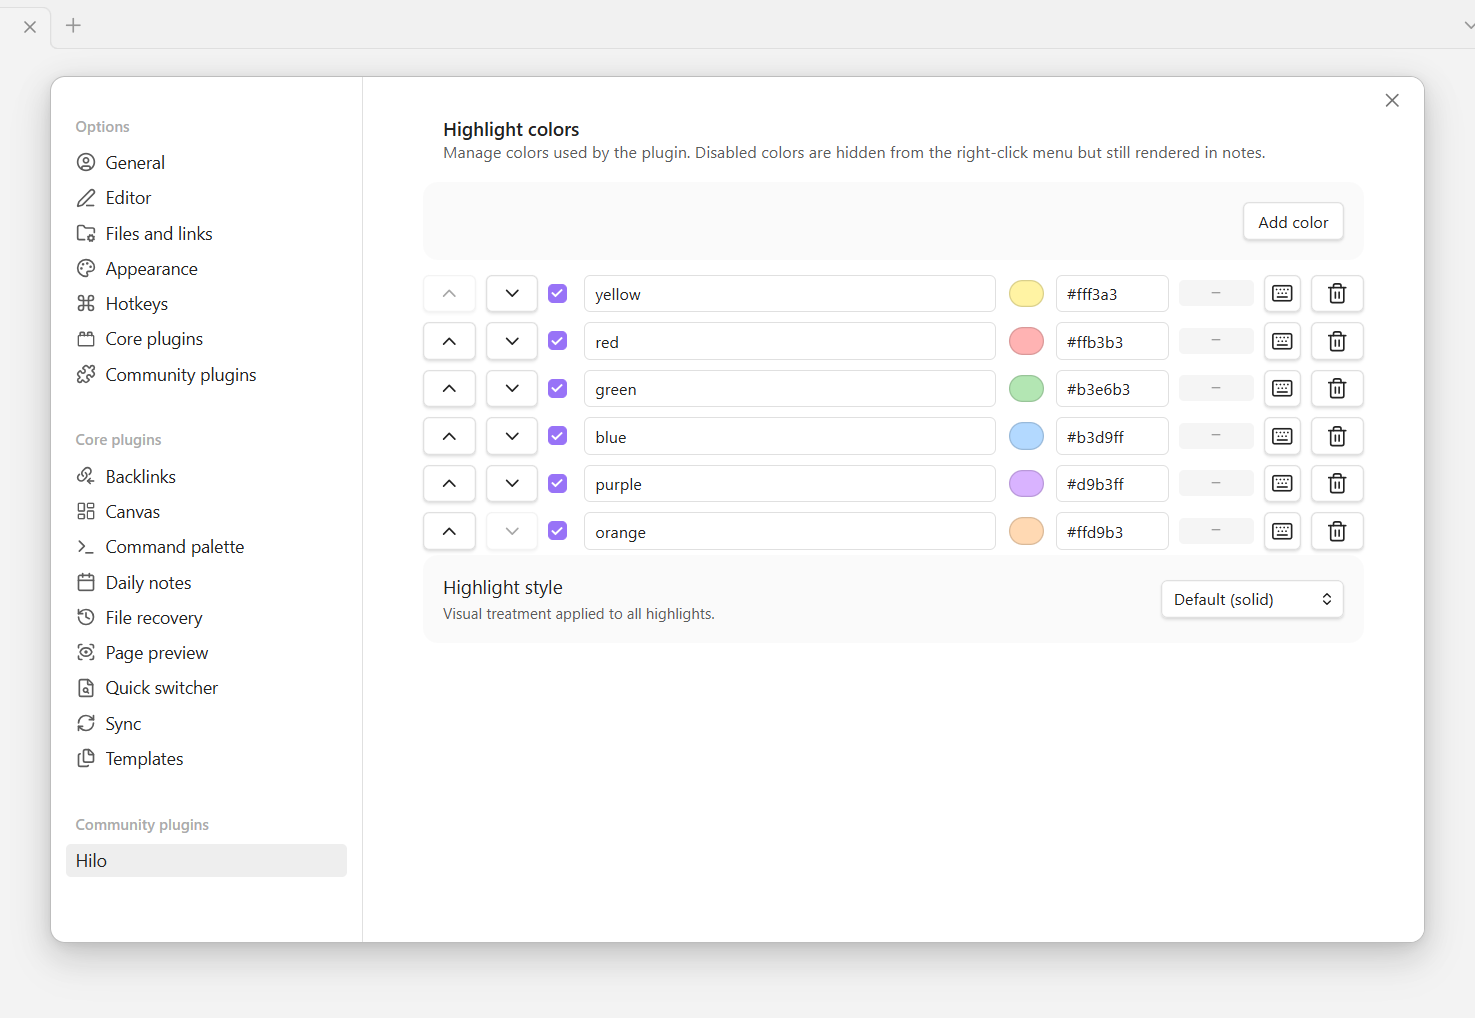
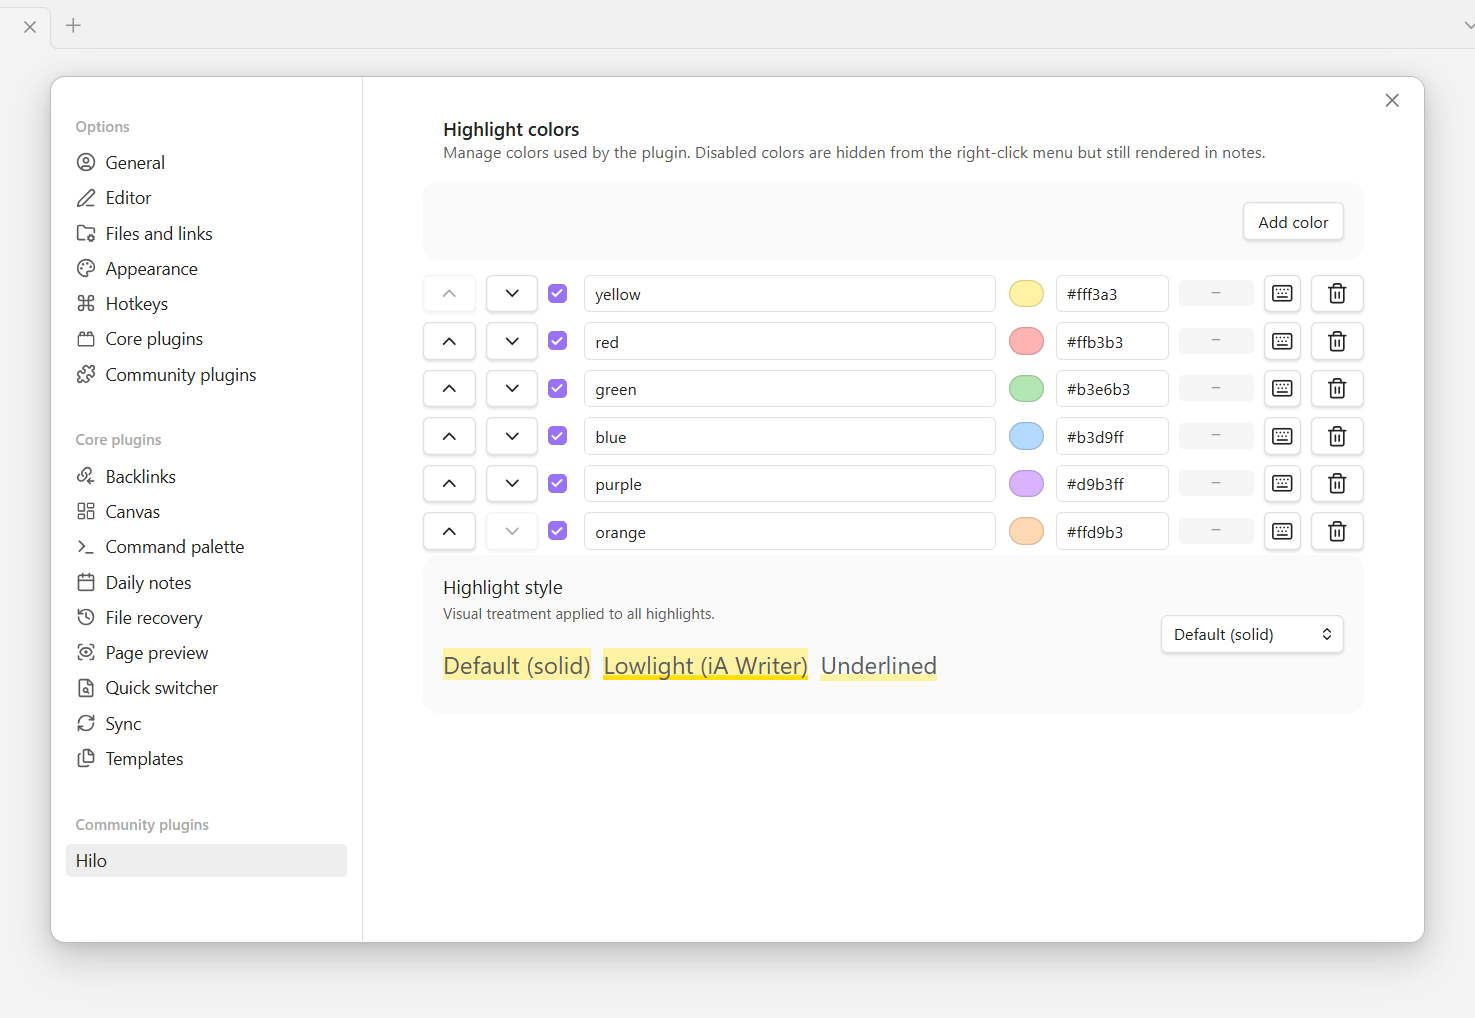
docs: rewrite Visual styles section for #2 (Underlined) + recapture settings shot with preview panel

Changed region(s): [[0.2807, 0.6395, 0.6549, 0.6699], [0.7797, 0.5786, 0.9044, 0.6395]]

diff --git a/README.ko.md b/README.ko.md
@@ -53,16 +53,21 @@
 
 ### 색상 커스터마이즈
 
-![설정 → Hilo — 색상별 슬러그/hex/미리보기/단축키와 Highlight style 드롭다운](assets/screenshots/demo-03-settings.png)
+![설정 → Hilo — 색상별 슬러그/hex/미리보기/단축키, Highlight style 드롭다운, 각 스타일 실시간 프리뷰](assets/screenshots/demo-03-settings.png)
 
 - 설정 → Hilo에서 색상 추가/편집/삭제/순서 변경/활성화 토글 지원.
 - 슬러그(`yellow`) + hex(`#fff3a3`) 조합으로 자유 정의.
 - 비활성화된 색상은 메뉴에서 숨겨지지만 기존 하이라이트는 시각적으로 유지됩니다.
 
-### iA Writer 풍 lowlight 스타일
-- 설정 → Highlight style에서 `Lowlight` 선택 시 배경 + 색상별 자동 darker underline 적용.
-- underline 색은 각 배경색에서 HSL 변환(hue 유지, saturation 100%, lightness -30pp)으로 자동 계산.
-- Chromium spellcheck와 충돌하지 않는 `box-shadow` 기반 underline.
+### 시각 스타일
+
+설정 → Hilo → Highlight style에서 세 가지 렌더 방식 중 선택 (드롭다운 바로 아래에 실시간 프리뷰가 표시됩니다 — 위 스크린샷 참고):
+
+- **Default (solid)** — 텍스트 전체 영역을 색으로 채우는 클래식 형광펜 스타일.
+- **Lowlight (iA Writer)** — 은은한 배경 + 색상별 진한 밑줄. 밑줄 색은 각 배경색에서 HSL 변환(hue 유지, saturation 100%, lightness -30pp)으로 자동 계산.
+- **Underlined** — 배경 없이 텍스트 하단만 얇은 컬러 밴드. Light/dark 테마 모두 자연스러움.
+
+밑줄은 `box-shadow`(Lowlight) 또는 `linear-gradient`(Underlined)로 렌더 — `text-decoration`이 Chromium spellcheck에 override되는 문제 회피.
 
 ### Highlightr 마이그레이션
 - 기존 `<mark style="...">text</mark>` 형태의 하이라이트에서도 우클릭 메뉴가 작동합니다.

diff --git a/README.md b/README.md
@@ -53,16 +53,21 @@ Assign hotkeys in **Settings → Hotkeys**. Each color row in **Settings → Hil
 
 ### Color customization
 
-![Settings → Hilo — slug/hex/preview/hotkey per color, plus the Highlight style dropdown](assets/screenshots/demo-03-settings.png)
+![Settings → Hilo — slug/hex/preview/hotkey per color, Highlight style dropdown, and a live preview of every style](assets/screenshots/demo-03-settings.png)
 
 - **Settings → Hilo** lets you add, edit, delete, reorder, and enable/disable colors.
 - Define any color as `slug` + `hex` (e.g. `yellow` + `#fff3a3`).
 - Disabled colors are hidden from menus but remain visually preserved in existing highlights.
 
-### iA Writer–style lowlight mode
-- Background + per-color darker underline. Choose it under **Settings → Highlight style → Lowlight**.
-- Underline color is computed from each background via HSL (hue preserved, saturation 100%, lightness −30pp).
-- Underline uses `box-shadow` instead of `text-decoration` to avoid being overridden by Chromium's spellcheck.
+### Visual styles
+
+Three ways to render highlights, switchable under **Settings → Hilo → Highlight style** (live previews are shown right below the dropdown — see the screenshot above):
+
+- **Default (solid)** — the color fills the whole text region, like a classic highlighter marker.
+- **Lowlight (iA Writer)** — subtle background with a darker underline; the underline color is auto-computed from each background via HSL (hue preserved, saturation 100%, lightness −30pp).
+- **Underlined** — a thin band of color at the bottom of the text, no fill. Works cleanly on both light and dark themes.
+
+Underlines use `box-shadow` (Lowlight) or `linear-gradient` (Underlined) instead of `text-decoration`, so they aren't overridden by Chromium's spellcheck.
 
 ### Highlightr migration
 - The context menu also works on existing `<mark style="...">text</mark>` highlights.